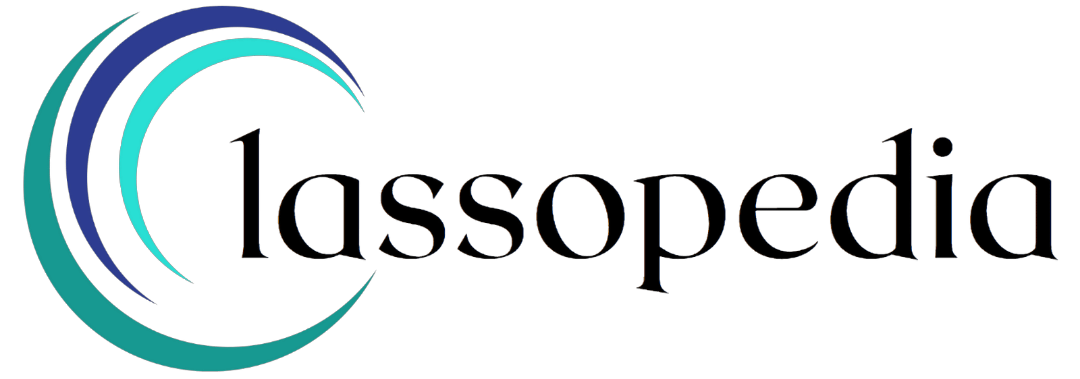
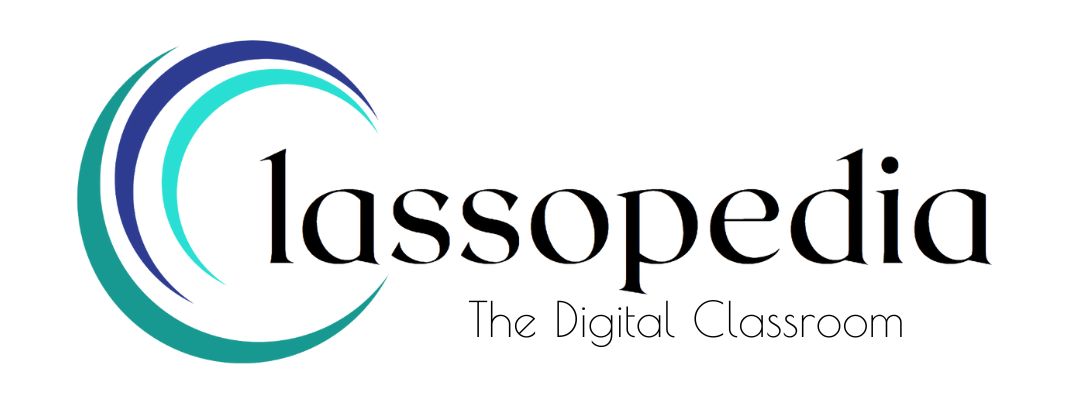
commit

Changed region(s): [[0.1833, 0.3483, 0.9778, 0.8707], [0.0, 0.0, 0.3667, 0.9868]]

diff --git a/frontend/src/components/homepage/homepage.js b/frontend/src/components/homepage/homepage.js
@@ -4,20 +4,24 @@ import { Link } from "react-router-dom";
 import classopedia from './classopedia.png'
 import image1 from './image1.png'
 import image2 from './image2.png'
-const Homepage = () =>{
+const Homepage = () => {
     return (
         <div className="homepage">
             <div className="Clogo">
                 <img src={classopedia} className="classopedialogo" ></img>
             </div>
-            {/* <div  >
-                <img src={image1} className="image1" ></img>
+
+            <img src={image1} className="image1" ></img>
+            <img src={image2} className="image2" ></img>
+            <div className="mt-3">
+                <h3>Choose Your Role</h3>
+                <div className="flex bttnmargin">
+                    <Link to="/login"><div className="button bttn11">Student</div></Link>
+                    <Link to="/loginteacher"><div className="button">Teacher</div></Link>
+                </div>
+
             </div>
-            <div  >
-                <img src={image2} className="image2" ></img>
-            </div> */}
-            <Link to="/login"><div className="button">Student</div></Link>
-            <Link to="/loginteacher"><div className="button">Teacher</div></Link>
+
         </div>
     )
 }

diff --git a/frontend/src/components/homepage/homepage.css b/frontend/src/components/homepage/homepage.css
@@ -2,19 +2,30 @@
     display: flex;
     flex-direction: column;
     align-items: center;
-    justify-content: center;
-    height: 50vh;
+    height: 100vh;
     border: 20px;
-    background-color: aliceblue;
-    position: relative;
+}
+
+.image1 {
+    position: absolute;
+    width: 35%;
+    left: 0px;
+    bottom: 0px;
+}
+
+.image2 {
+    position: absolute;
+    width: 40%;
+    right: 0px;
+    bottom: 0px;
 }
 
 .homepage .button {
     background: #1877f2;
-    border: 1px solid #1877f2
-    ;
+    border: 1px solid #1877f2;
     color: #fff;
     font-size: 1.25rem;
+    margin-right: 2rem;
     padding: 0.5rem;
     margin: 0.5rem 0;
     border-radius: 8px;
@@ -22,6 +33,20 @@
     cursor: pointer;
 }
 
-.classopedialogo{
-   width: 70%;
+.bttn11 {
+    background-color: rebeccapurple;
+}
+
+
+.classopedialogo {
+    text-align: center;
+    padding-top: 3rem;
+    display: flex;
+    Width: 50%;
+    justify-content: center;
+}
+
+.Clogo {
+    display: flex;
+    justify-content: center;
 }
